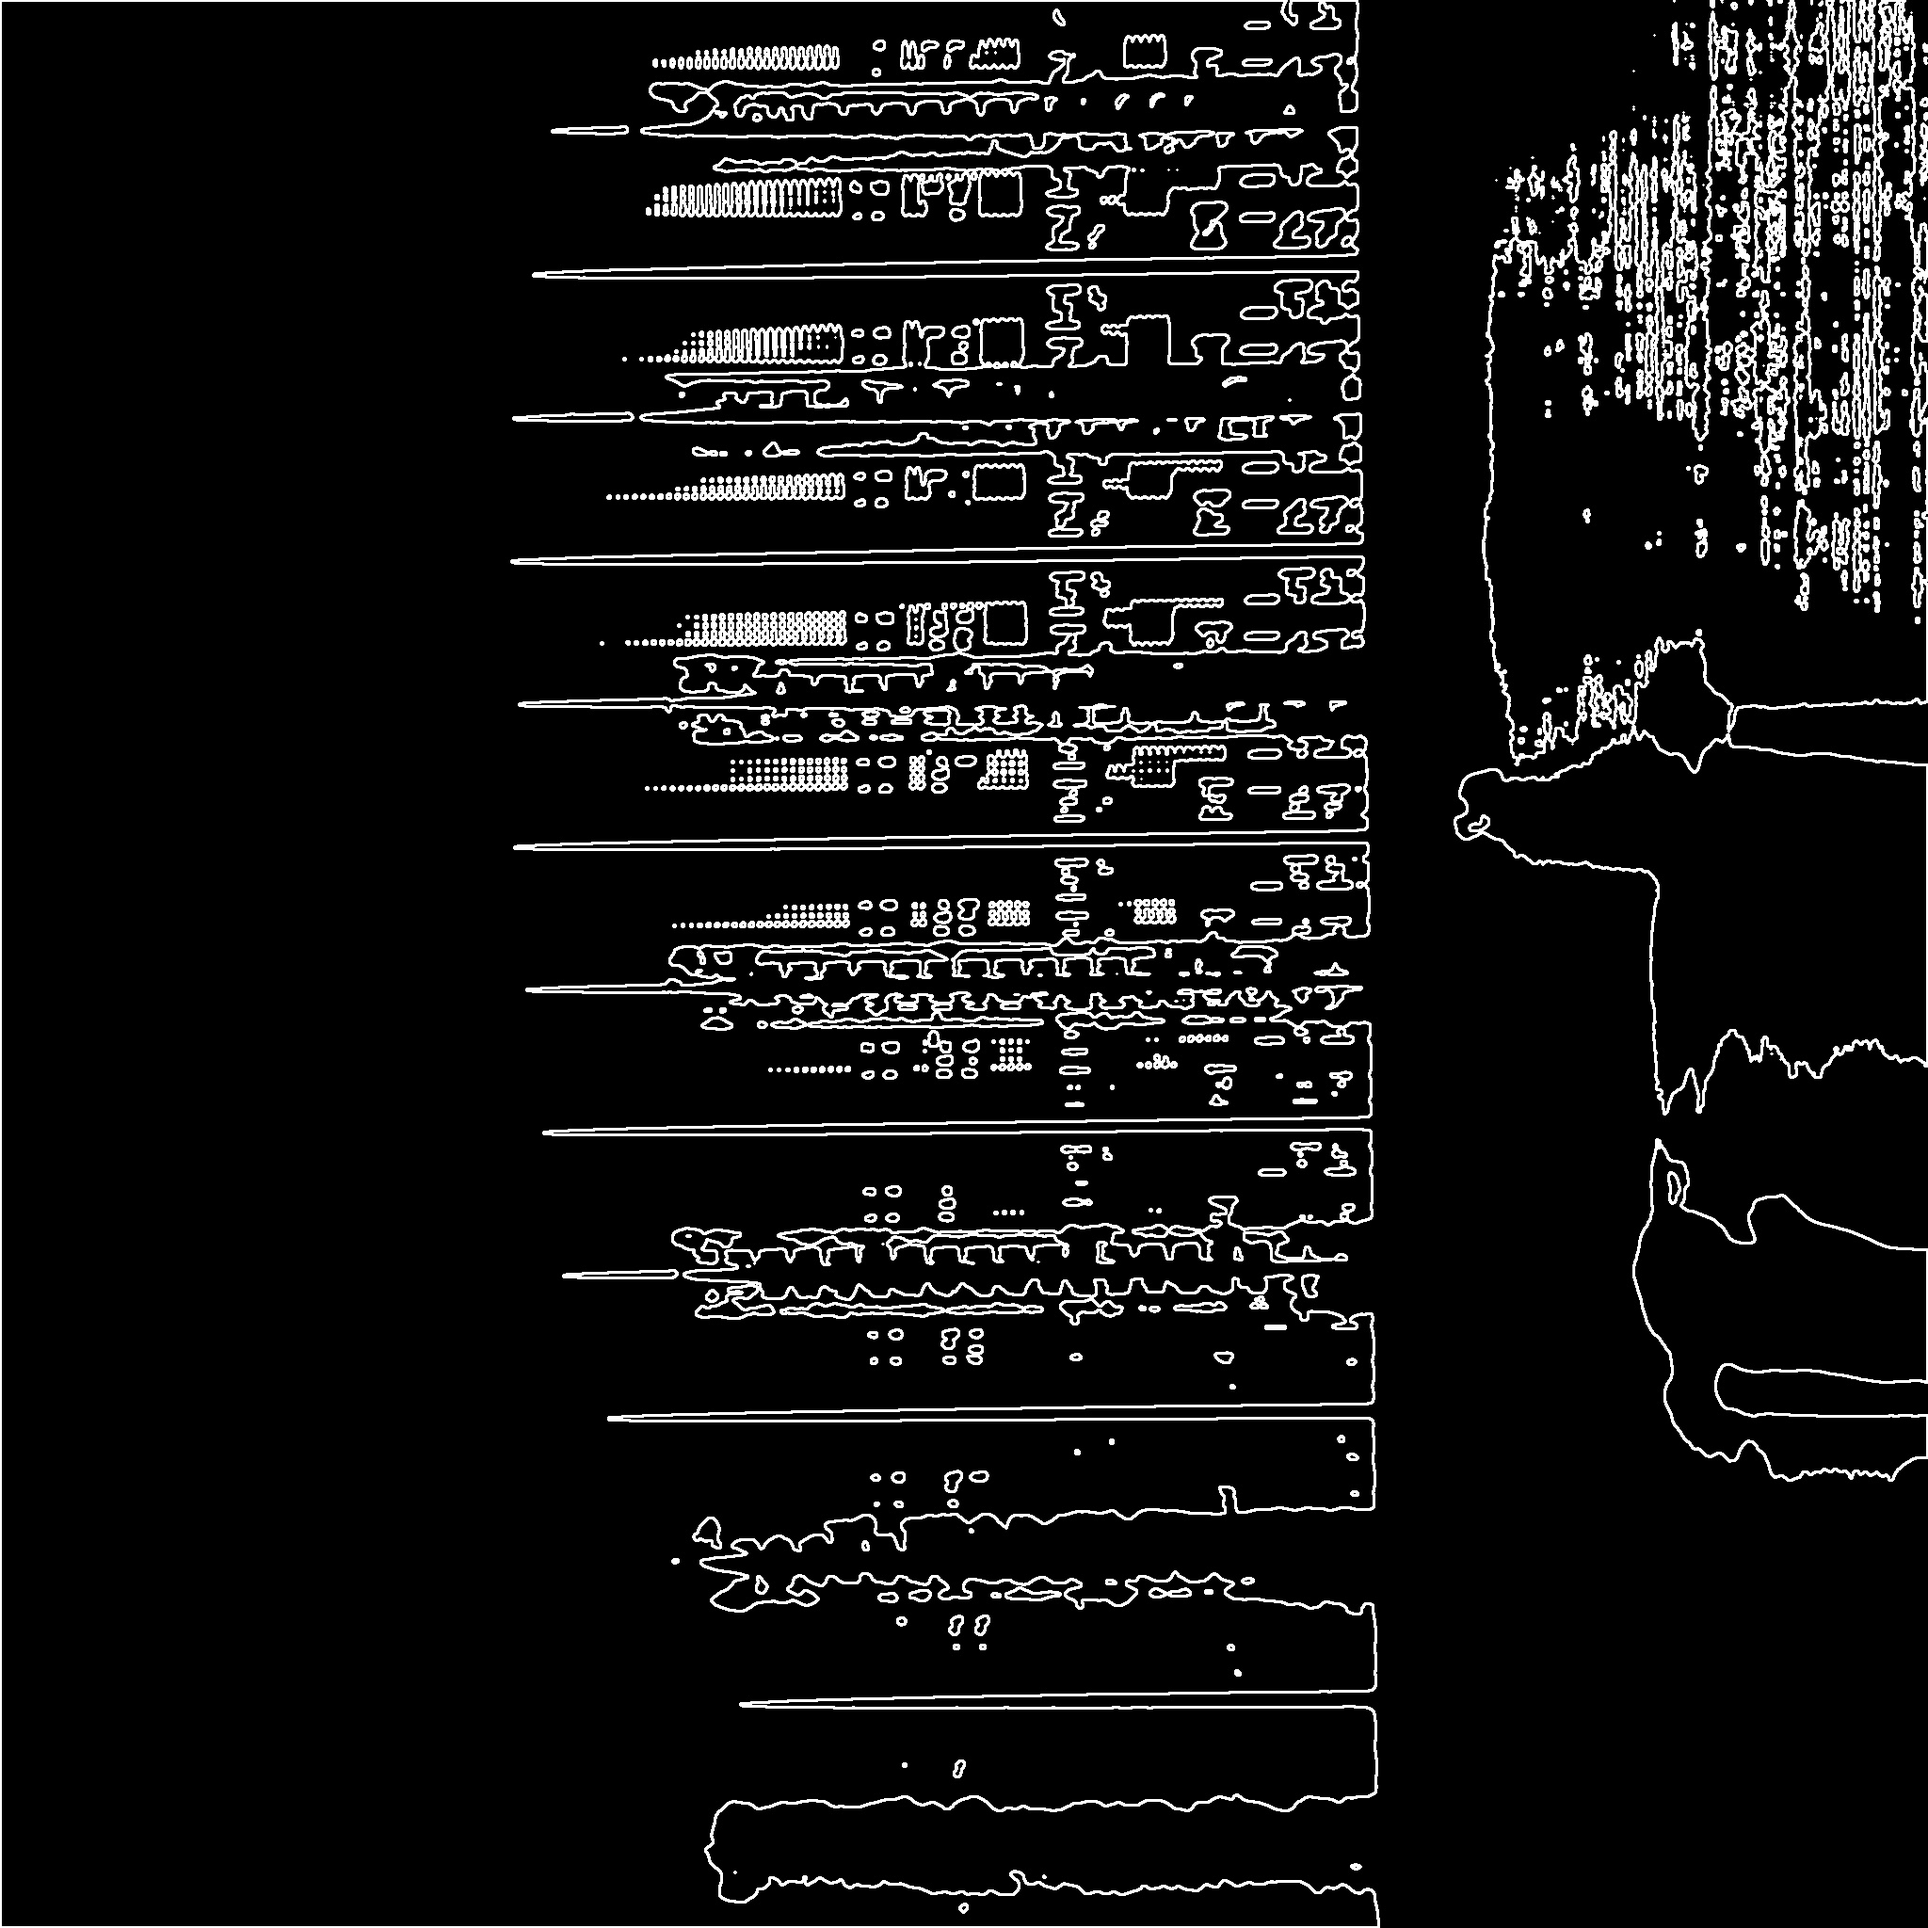
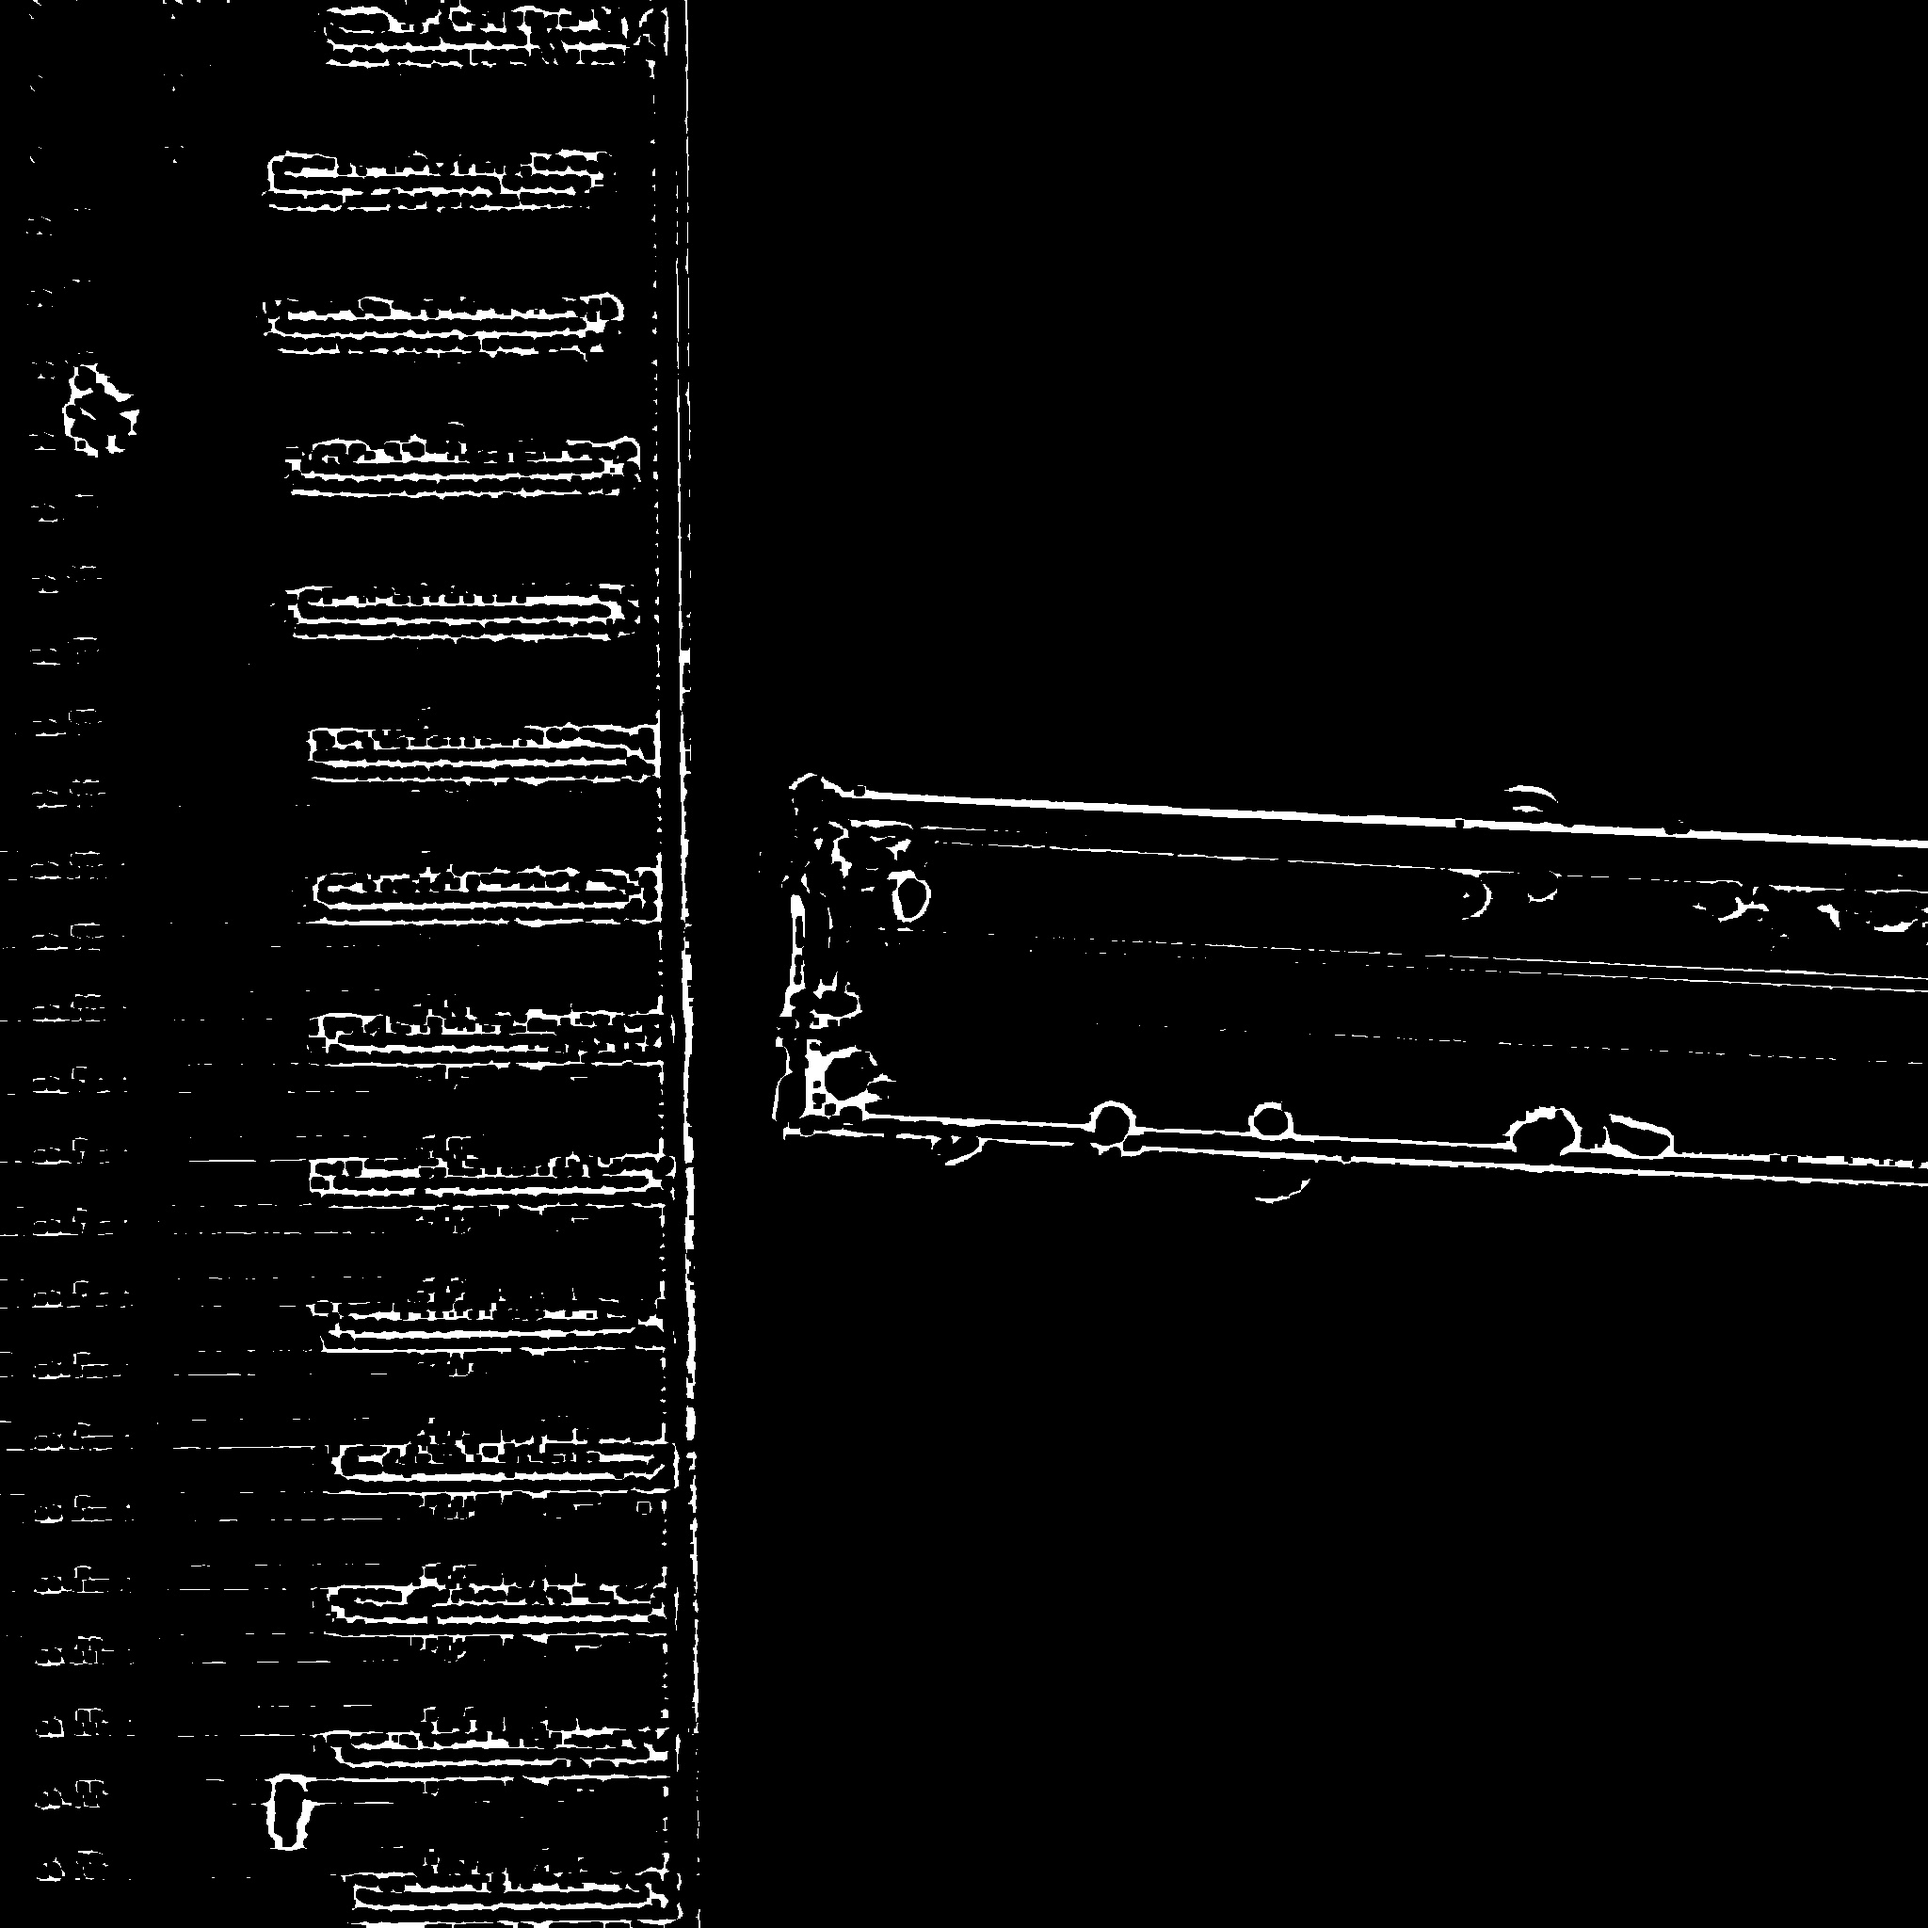
change processed image from binary_contour to adapt_thresh_erode

diff --git a/GUI.py b/GUI.py
@@ -41,7 +41,7 @@ class MyWindow(QMainWindow):
         self.textimage.setGeometry(50,920, 1000,100)
         
         ### CHIP_FIBER IMAGE
-        pixmapimage = QPixmap('Photos/Photo_Fiber_Obj_20X.tif')
+        pixmapimage = QPixmap('Photos/Photo_Fiber_Obj_10X.tif')
         pixmapimage = pixmapimage.scaled(700, 700, Qt.KeepAspectRatio)
         self.labelimage = QLabel(self)
         self.labelimage.setPixmap(pixmapimage)
@@ -51,7 +51,7 @@ class MyWindow(QMainWindow):
 
         ### PROCESSED IMAGE
 
-        img = get_array('Photos/Photo_Fiber_Obj_20X.tif')
+        img = get_array('Photos/Photo_Fiber_Obj_10X.tif')
 	### Processed array now will include contour (to compatible with adaptive threshold, which not require contour)
         processed_array = get_processed_array(img) 
         cv2.imwrite('Photos/Processed_10X.jpg', processed_array)

diff --git a/Example_mv01.py b/Example_mv01.py
@@ -17,7 +17,8 @@ def get_canny_edge(img):
 
 def get_adaptive_binary(img):
     th = cv.adaptiveThreshold(img,255,cv.ADAPTIVE_THRESH_GAUSSIAN_C,cv.THRESH_BINARY_INV,21,2)
-    return th
+    erode = cv.erode(th, np.ones((5,5)), iterations=1)
+    return erode
 
 def get_binary_array(img):
     segment = segment_identifier(img)
@@ -44,9 +45,10 @@ def get_processed_array(img):
     # processed = get_canny_edge(blur)
     
     ### Adaptive threshold
+    processed = get_adaptive_binary(blur)
 
     ### Binary + contour
-    processed = get_contours_array(get_binary_array(blur))
+    # processed = get_contours_array(get_binary_array(blur))
     return processed
 
 def draw_profiling_line(img, y):
